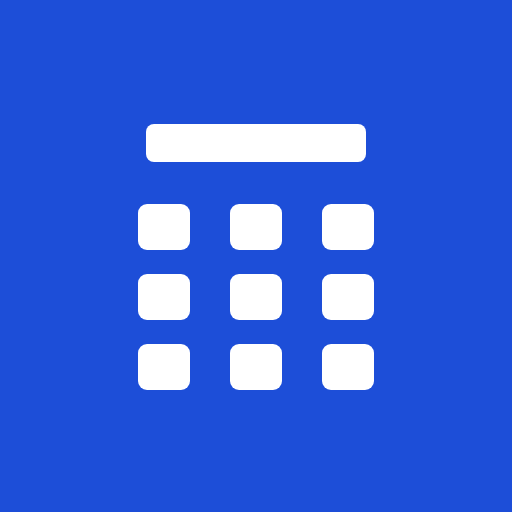
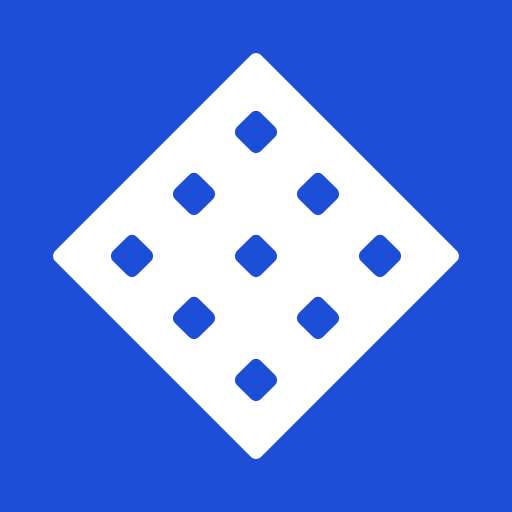
v1.35

Changed region(s): [[0.0938, 0.0938, 0.9062, 0.9062]]

diff --git a/css/styles.css b/css/styles.css
@@ -17,16 +17,16 @@
 }
 @media (prefers-color-scheme: dark) {
   :root {
-    --bg: #121214; --surface: #1b1b1e; --soft: #242428;
-    --ink: #ececee; --muted: #a2a2ab;
-    --line: #2f2f35; --line-strong: #4b4b54;
-    --accent: #7aa7ff; --accent-ink: #0b1220; --accent-soft: #1f2b47;
-    --danger: #ff8f85; --danger-soft: #3a1f1d; --ok: #7fd3a7;
-    --class: #7fd3a7; --class-soft: #1d2e26;
-    --exam: #f0b765; --exam-soft: #35291a;
-    --other: #b8a6f5; --other-soft: #2a2440;
-    --stairs: #26262b; --scrim: rgba(0, 0, 0, .65);
-    --seat-line: #5a5a64; --seat-ink: #e3e3e7; --seat-taken: #2a2a2f; --board: #3a3a42;
+    --bg: #000000; --surface: #0a0a0d; --soft: #141418;
+    --ink: #f1f1f4; --muted: #a0a0aa;
+    --line: #222228; --line-strong: #3c3c46;
+    --accent: #7aa7ff; --accent-ink: #0b1220; --accent-soft: #14203b;
+    --danger: #ff8f85; --danger-soft: #2b1412; --ok: #7fd3a7;
+    --class: #7fd3a7; --class-soft: #0e1f17;
+    --exam: #f0b765; --exam-soft: #241a0c;
+    --other: #b8a6f5; --other-soft: #1b1630;
+    --stairs: #17171b; --scrim: rgba(0, 0, 0, .72);
+    --seat-line: #50505a; --seat-ink: #e8e8ec; --seat-taken: #1f1f24; --board: #2a2a31;
   }
 }
 
@@ -201,6 +201,7 @@ body.room-page { display: flex; flex-direction: column; min-height: 0; height: 1
 .today-btn:hover { background: var(--accent-soft); }
 .no-events { align-self: center; color: var(--muted); font-size: 14px; }
 .day-bar { display: none; }
+.bar-handle { display: none; }
 .pk-pop { position: absolute; top: calc(100% + 6px); left: 14px; z-index: 30; width: 280px; padding: 12px; border: 1px solid var(--line-strong); border-radius: 8px; background: var(--surface); }
 .pk-head { display: flex; align-items: center; justify-content: space-between; margin-bottom: 8px; }
 .pk-head button { width: 32px; height: 32px; border: 1px solid var(--line); border-radius: 6px; background: var(--surface); color: var(--ink); font-size: 18px; line-height: 1; }
@@ -223,6 +224,7 @@ body.room-page { display: flex; flex-direction: column; min-height: 0; height: 1
 .chip[data-type="other"] { border-left-color: var(--other); }
 .chip:hover { background: var(--soft); }
 .chip.selected { border-color: var(--accent); border-left-color: var(--accent); background: var(--accent-soft); }
+.chip-tag { display: none; }
 .chip-time { font-size: 14px; font-weight: 600; line-height: 1.25; white-space: nowrap; }
 .chip-sub { max-width: 100%; color: var(--muted); font-size: 12px; line-height: 1.3; overflow-wrap: anywhere; }
 .chip-mark { position: absolute; top: 2px; right: 2px; display: grid; place-items: center; width: 30px; height: 30px; padding: 0; border: 0; border-radius: 6px; background: transparent; color: var(--muted); }
@@ -362,6 +364,23 @@ fieldset.field { padding: 0; border: 0; min-width: 0; }
 
 body.room-page #toast { bottom: 140px; }
 
+/* dark glass */
+/* Dark mode only: pure black page, a faint blue glow at the top, and frosted headers and cards. */
+@media (prefers-color-scheme: dark) {
+  body { background-color: #000; background-image: radial-gradient(900px 380px at 50% -120px, rgba(96, 140, 255, .16), transparent 70%); background-repeat: no-repeat; }
+  .site-bar, .topbar, .event-bar { background: rgba(12, 12, 16, .72); border-color: rgba(255, 255, 255, .08); -webkit-backdrop-filter: blur(18px) saturate(150%); backdrop-filter: blur(18px) saturate(150%); }
+  .menu, .my-item, .search-box, .room-foot, .zoom-tools, .chip, .date-pill, .strip-arrow, .btn, .bookmark-btn, .add-btn { background: rgba(255, 255, 255, .045); border-color: rgba(255, 255, 255, .11); -webkit-backdrop-filter: blur(12px); backdrop-filter: blur(12px); }
+  .room-foot { background: rgba(12, 12, 16, .72); border-top-color: rgba(255, 255, 255, .08); -webkit-backdrop-filter: blur(18px) saturate(150%); backdrop-filter: blur(18px) saturate(150%); }
+  .chip.selected, .date-pill.selected, .btn.primary, .bookmark-btn[aria-pressed="true"] { background: var(--accent-soft); border-color: var(--accent); }
+  .date-pill.selected, .btn.primary { background: var(--accent); }
+  .btn.quiet { background: transparent; border-color: transparent; -webkit-backdrop-filter: none; backdrop-filter: none; }
+  .pk-pop { background: rgba(14, 14, 18, .9); border-color: rgba(255, 255, 255, .14); -webkit-backdrop-filter: blur(20px); backdrop-filter: blur(20px); }
+  dialog { background: rgba(16, 16, 21, .82); border-color: rgba(255, 255, 255, .14); -webkit-backdrop-filter: blur(22px) saturate(150%); backdrop-filter: blur(22px) saturate(150%); }
+  dialog::backdrop { background: rgba(0, 0, 0, .6); -webkit-backdrop-filter: blur(4px); backdrop-filter: blur(4px); }
+  .map-card { border-color: rgba(255, 255, 255, .14); }
+}
+/* end dark glass */
+
 /* ---------- phones ---------- */
 @media (max-width: 759px) {
   :root { --gap: 4px; --row-gap: 4px; --aisle-w: 24px; --gutter-w: 54px; }
@@ -396,7 +415,7 @@ body.room-page #toast { bottom: 140px; }
   .month-btn { display: inline-flex; align-items: center; gap: 4px; padding: 4px 4px; border: 0; background: transparent; font-size: 15px; font-weight: 600; }
   .day-strip { position: relative; display: flex; gap: 4px; padding: 2px 12px; overflow-x: auto; scrollbar-width: none; }
   .day-strip::-webkit-scrollbar { display: none; }
-  .day-tile { position: relative; flex: 0 0 auto; display: flex; flex-direction: column; align-items: center; justify-content: center; gap: 2px; width: 44px; height: 50px; padding: 0; border: 1px solid transparent; border-radius: 8px; background: transparent; }
+  .day-tile { position: relative; flex: 0 0 auto; display: flex; flex-direction: column; align-items: center; justify-content: center; gap: 2px; width: calc((100vw - 24px) / 7.4 - 4px); max-width: 56px; height: 54px; padding: 0; border: 1px solid transparent; border-radius: 12px; background: transparent; }
   .day-tile span { color: var(--muted); font-size: 11px; font-weight: 500; }
   .day-tile b { font-size: 17px; font-weight: 600; line-height: 1; }
   .day-tile.today { border-color: var(--line-strong); }
@@ -405,10 +424,33 @@ body.room-page #toast { bottom: 140px; }
   .day-tile.selected span { color: inherit; opacity: .85; }
   .day-tile.selected.has::after { background: var(--accent-ink); }
   .pk-pop { left: 12px; right: 12px; width: auto; max-width: 320px; }
-  .event-strip { flex: none; width: 100%; padding: 0 12px 2px; }
-  .event-strip { padding-top: 4px; }
-  .chip { min-width: 140px; max-width: 240px; min-height: 44px; padding: 5px 32px 5px 9px; }
-  .chip-time { font-size: 13px; }
+  .event-strip { flex: none; width: 100%; gap: 8px; padding: 0 12px 2px; scroll-padding: 0 12px; scroll-snap-type: x mandatory; scrollbar-width: none; }
+  .event-strip::-webkit-scrollbar { display: none; }
+  .event-strip { padding-top: 6px; }
+  .chip-wrap { flex: 1 0 auto; display: flex; min-width: 42%; max-width: 80%; }
+  .chip, .chip[data-type] { flex: 1; width: 100%; min-width: 0; max-width: none; min-height: 58px; gap: 3px; padding: 8px 12px; border: 1px solid var(--line); border-radius: 10px; position: relative; }
+  .chip.selected, .chip.selected[data-type] { border-color: var(--accent); }
+  .chip::before { content: ""; position: absolute; left: 0; top: 10px; bottom: 10px; width: 4px; border-radius: 0 3px 3px 0; background: var(--class); }
+  .chip[data-type="exam"]::before { background: var(--exam); }
+  .chip[data-type="other"]::before { background: var(--other); }
+  .chip.selected::before { background: var(--accent); }
+  .chip-time { padding-left: 4px; font-size: 13px; }
+  .chip-sub { padding-left: 4px; color: var(--ink); font-size: 14px; font-weight: 500; line-height: 1.25; }
+  .chip-tag { display: inline; margin-left: 6px; font-size: 11px; font-weight: 700; letter-spacing: .03em; text-transform: uppercase; color: var(--exam); }
+  .chip[data-type="other"] .chip-tag { color: var(--other); }
+  .chip-mark { top: 4px; right: 4px; width: 26px; height: 26px; }
+  .chip-mark[aria-pressed="false"] { display: none; }
+  .map-scroll.whole .map-sizer { margin: auto; }
+
+  /* Pull-up handle: collapses the dates and events so the seat map gets the whole screen. */
+  .bar-handle { display: flex; align-items: center; justify-content: center; gap: 10px; width: 100%; min-height: 22px; padding: 3px 14px 6px; border: 0; background: transparent; color: var(--muted); text-align: left; }
+  .grab { width: 40px; height: 4px; border-radius: 2px; background: var(--line-strong); }
+  .bar-sum, .bar-chev { display: none; }
+  .event-bar.collapsed .event-bar-inner { display: none; }
+  .event-bar.collapsed .bar-handle { justify-content: space-between; min-height: 46px; padding: 8px 14px; }
+  .event-bar.collapsed .grab { display: none; }
+  .event-bar.collapsed .bar-sum { display: block; flex: 1; min-width: 0; overflow: hidden; color: var(--ink); font-size: 14px; font-weight: 600; text-overflow: ellipsis; white-space: nowrap; }
+  .event-bar.collapsed .bar-chev { display: block; flex: 0 0 auto; }
   .room-foot { gap: 6px 12px; padding: 8px 12px max(14px, env(safe-area-inset-bottom)); }
   .foot-event { flex-basis: 100%; }
   .foot-event strong { font-size: 15px; }

diff --git a/js/room.js b/js/room.js
@@ -170,6 +170,7 @@
     const box = $('map-scroll');
     if (!state.manualZoom) {
       state.scale = fitScale();
+      box.classList.toggle('whole', isPhone() && state.showWhole);
       applyScale();
       // Only move the view when the scale changed, so marking a seat does not jump the map back.
       if (Math.abs(state.scale - state.lastScale) > 0.001) {
@@ -261,15 +262,53 @@
       return `<button type="button" class="date-pill${mid ? ' selected' : ''}" data-date="${esc(date)}" data-mid="${mid}" aria-label="${esc(dateLong(date))}${mid ? ', open calendar' : ''}" ${mid ? 'aria-haspopup="dialog" aria-expanded="' + !$('pk-pop').hidden + '"' : ''}><span>${esc(d ? part(d, { weekday: 'short' }) : '')}</span><b>${esc(dayLabel(date))}${mid ? calIcon : ''}</b></button>`;
     }).join('');
     $('date-today').hidden = $('day-today').hidden = state.date === todayISO();
+    updateSummary();
     renderDays();
     if (!$('pk-pop').hidden) renderCal();
     strip.innerHTML = state.events.filter(e => e.date === state.date).map(e => {
       const selected = String(e.id) === String(state.eventId);
       const type = typeOf(e.type);
       const marked = Store.bookmarks.has(e.id);
-      return `<div class="chip-wrap"><button type="button" class="chip${selected ? ' selected' : ''}" data-event="${esc(e.id)}" data-type="${type}" title="${esc(e.title)} · ${esc(TYPE[type])}" aria-label="${esc(e.title)}, ${esc(TYPE[type])}, ${esc(dateLong(e.date))}, ${esc(timeLabel(e.start))}" aria-pressed="${selected}"><span class="chip-time">${esc(timeLabel(e.start))}</span><span class="chip-sub">${esc(e.title)}</span></button><button type="button" class="chip-mark" data-bookmark="${esc(e.id)}" aria-pressed="${marked}" aria-label="${marked ? 'Remove bookmark from' : 'Bookmark'} ${esc(e.title)}" title="${marked ? 'Remove from My events' : 'Add to My events'}">${flag}</button></div>`;
+      return `<div class="chip-wrap"><button type="button" class="chip${selected ? ' selected' : ''}" data-event="${esc(e.id)}" data-type="${type}" title="${esc(e.title)} · ${esc(TYPE[type])}" aria-label="${esc(e.title)}, ${esc(TYPE[type])}, ${esc(dateLong(e.date))}, ${esc(timeLabel(e.start))}" aria-pressed="${selected}"><span class="chip-time">${esc(timeLabel(e.start))}${type === 'class' ? '' : `<span class="chip-tag">${esc(TYPE[type])}</span>`}</span><span class="chip-sub">${esc(e.title)}</span></button><button type="button" class="chip-mark" data-bookmark="${esc(e.id)}" aria-pressed="${marked}" aria-label="${marked ? 'Remove bookmark from' : 'Bookmark'} ${esc(e.title)}" title="${marked ? 'Remove from My events' : 'Add to My events'}">${flag}</button></div>`;
     }).join('') || '<div class="no-events">No classes or events on this day</div>';
   }
+
+  // ---------- phones: pull the dates and events up to see the whole classroom ----------
+  const BAR_KEY = 'lhc-bar-collapsed';
+  function updateSummary() {
+    const ev = currentEvent();
+    $('bar-sum').textContent = `${LHC_FMT.dateShort(state.date)} · ${ev ? `${ev.title}, ${timeLabel(ev.start)}` : 'No events'}`;
+  }
+  function setCollapsed(on, remember) {
+    const bar = $('event-bar');
+    bar.classList.toggle('collapsed', on);
+    const handle = $('bar-handle');
+    handle.setAttribute('aria-expanded', String(!on));
+    handle.setAttribute('aria-label', on ? 'Show dates and events' : 'Hide dates and events to see the whole classroom');
+    if (on) $('pk-pop').hidden = true;
+    updateSummary();
+    if (remember) { try { localStorage.setItem(BAR_KEY, on ? '1' : '0'); } catch { /* ignore */ } }
+    // Collapsed: show the whole classroom. Expanded: back to the readable size.
+    state.showWhole = on; state.manualZoom = false; state.lastScale = 0;
+    const fit = document.querySelector('[data-zoom="fit"]');
+    if (fit) { const label = on ? 'Readable size' : 'Fit whole classroom'; fit.title = label; fit.setAttribute('aria-label', label); }
+    requestAnimationFrame(() => requestAnimationFrame(refit));
+  }
+  $('bar-handle').addEventListener('click', () => setCollapsed(!$('event-bar').classList.contains('collapsed'), true));
+  (() => {
+    let t = null;
+    const bar = $('event-bar');
+    bar.addEventListener('touchstart', e => { t = e.touches.length === 1 ? { x: e.touches[0].clientX, y: e.touches[0].clientY } : null; }, { passive: true });
+    bar.addEventListener('touchend', e => {
+      if (!t || !isPhone()) return;
+      const c = e.changedTouches[0], dx = c.clientX - t.x, dy = c.clientY - t.y;
+      t = null;
+      if (Math.abs(dy) < 36 || Math.abs(dy) < Math.abs(dx) * 1.5) return;
+      const collapsed = bar.classList.contains('collapsed');
+      if (dy < 0 && !collapsed) setCollapsed(true, true);
+      else if (dy > 0 && collapsed) setCollapsed(false, true);
+    }, { passive: true });
+  })();
 
   function renderCal() {
     const pop = $('pk-pop'), base = parseDate(calMonth || state.date) || new Date();
@@ -451,6 +490,7 @@
     showAddButton();
     if (room.layout) wireZoom(); else $('zoom-tools').hidden = true;
     if (!room.layout) $('map-scroll').outerHTML = `<div class="pending"><h2>${esc(room.name)}</h2><p>The seating map for this classroom isn't available yet.</p></div>`;
+    try { if (isPhone() && localStorage.getItem(BAR_KEY) === '1') setCollapsed(true, false); } catch { /* ignore */ }
     const status = await Store.init();
     if (status.error) notify(status.error);
     try { await loadEvents(); } catch (error) { console.error(error); state.events = []; notify('Could not load events.'); }

diff --git a/tests/smoke-test.js b/tests/smoke-test.js
@@ -149,9 +149,13 @@ assert.ok(!fs.existsSync(path.join(root, 'js/theme.js')), 'theme.js is gone');
   }
   assert.ok(pointsOf('lhc-aryabhatta').every(([x, y], _, all) => all.some(([x2, y2]) => x2 === 1200 - x && y2 === y)), 'Aryabhatta is centred');
 }
-// Plain, flat styling: no glass blur, no gradients (except the calendar's hour lines), no decorative serif.
-assert.ok(!/backdrop-filter|blur\(/.test(css), 'no glass / blur effects');
-assert.ok((css.match(/gradient\(/g) || []).length === 1 && /\.cal-col \{[^}]*linear-gradient/.test(css), 'no gradients except the calendar hour lines');
+// Plain, flat styling: glass blur only in dark mode (the marked "dark glass" block), no other gradients except the calendar's hour lines, no decorative serif.
+const glass = (css.match(/\/\* dark glass \*\/[\s\S]*?\/\* end dark glass \*\//) || [''])[0];
+assert.ok(/@media \(prefers-color-scheme: dark\)/.test(glass) && /backdrop-filter/.test(glass), 'dark mode has a light glass touch');
+const flatCss = css.replace(glass, '');
+assert.ok(!/backdrop-filter|blur\(/.test(flatCss), 'no glass / blur effects outside dark mode');
+assert.ok((flatCss.match(/gradient\(/g) || []).length === 1 && /\.cal-col \{[^}]*linear-gradient/.test(flatCss), 'no gradients except the calendar hour lines');
+assert.ok(/--bg: #000000/.test(css), 'dark mode page is pure black');
 assert.ok(!/(^|[^-])serif|box-shadow/.test(css.replace(/sans-serif/g, "")), 'no serif headings or drop shadows');
 for (const page of ['index.html', 'interactive-map.html', 'admin.html']) assert.ok(read(page).includes('class="site-bar"'), `${page} has the simple top menu`);
 assert.ok(/id="room-list"/.test(read('index.html')) && /\.menu \{/.test(css), 'home page lists classrooms as a plain menu');
@@ -321,3 +325,13 @@ console.log('PASS: Cloudflare runtime config, admin session security and permiss
   assert.ok(home.includes('Store.mySeats') && read('js/room.js').includes('Your seat:') && read('js/cheer.js').includes('Your seat:'), 'seat number shown in lists, the classroom footer and the popup');
   console.log('PASS: own seat shown for exams; past events hidden by default');
 })().catch(error => { console.error(error); process.exitCode = 1; });
+
+// Phones: the dates and events can be pulled up to show the whole classroom.
+{
+  const room = read('room.html'), js = read('js/room.js'), css = read('css/styles.css');
+  assert.ok(room.includes('id="bar-handle"') && room.includes('aria-controls="event-bar-inner"') && room.includes('id="event-bar-inner"'), 'pull-up handle exists and is labelled');
+  assert.ok(js.includes('setCollapsed') && js.includes("'touchend'") && js.includes('lhc-bar-collapsed'), 'handle works by tap and swipe and is remembered');
+  assert.ok(/\.event-bar\.collapsed \.event-bar-inner \{ display: none; \}/.test(css), 'collapsed bar hides dates and events');
+  assert.ok(/\.bar-handle \{ display: none; \}/.test(css), 'handle is phone-only');
+  console.log('PASS: pull-up events bar on phones');
+}

diff --git a/room.html b/room.html
@@ -5,7 +5,7 @@
   <meta name="viewport" content="width=device-width, initial-scale=1">
   <meta name="color-scheme" content="light dark">
   <meta name="theme-color" content="#f6f6f4" media="(prefers-color-scheme: light)">
-  <meta name="theme-color" content="#121214" media="(prefers-color-scheme: dark)">
+  <meta name="theme-color" content="#000000" media="(prefers-color-scheme: dark)">
   <title>Classroom - IISER TVM</title>
   <link rel="manifest" href="manifest.webmanifest">
   <link rel="icon" href="icons/icon-192.png" type="image/png">
@@ -27,7 +27,7 @@
   </header>
 
   <div class="event-bar" id="event-bar" hidden>
-    <div class="event-bar-inner">
+    <div class="event-bar-inner" id="event-bar-inner">
       <div class="date-nav">
         <button type="button" class="strip-arrow" id="strip-left" aria-label="Previous day">
           <svg viewBox="0 0 24 24" width="16" height="16" fill="none" stroke="currentColor" stroke-width="2.6" stroke-linecap="round" stroke-linejoin="round" aria-hidden="true"><path d="M15 5l-7 7 7 7"/></svg>
@@ -48,6 +48,11 @@
       <div class="pk-pop" id="pk-pop" role="dialog" aria-label="Calendar" hidden></div>
       <div class="event-strip" id="event-strip" aria-label="Events on the selected date"></div>
     </div>
+    <button type="button" class="bar-handle" id="bar-handle" aria-expanded="true" aria-controls="event-bar-inner" aria-label="Hide dates and events to see the whole classroom">
+      <span class="grab" aria-hidden="true"></span>
+      <span class="bar-sum" id="bar-sum"></span>
+      <svg class="bar-chev" viewBox="0 0 24 24" width="20" height="20" fill="none" stroke="currentColor" stroke-width="2.4" stroke-linecap="round" stroke-linejoin="round" aria-hidden="true"><path d="M6 9l6 6 6-6"/></svg>
+    </button>
   </div>
 
   <main class="layout-main" id="room-body"></main>

diff --git a/sw.js b/sw.js
@@ -1,7 +1,7 @@
 // Lets the site install as an app and open its pages without a connection.
 // Pages and scripts always come from the network first, so updates show straight away; the saved copy is only a fallback.
 // Live data (/api and the database) is never saved here.
-const CACHE = 'lhc-shell-v2';
+const CACHE = 'lhc-shell-v3';
 const SHELL = ['index.html', 'room.html', 'interactive-map.html', 'css/styles.css', 'js/format.js', 'js/data.js', 'js/store.js', 'js/home.js', 'js/room.js', 'js/map.js', 'js/cheer.js', 'js/pwa.js', 'supabase/config.js', 'icons/icon-192.png', 'icons/icon-512.png', 'icons/cheer-cat.png'];
 
 self.addEventListener('install', event => {

diff --git a/admin.html b/admin.html
@@ -5,7 +5,7 @@
   <meta name="viewport" content="width=device-width, initial-scale=1">
   <meta name="color-scheme" content="light dark">
   <meta name="theme-color" content="#f6f6f4" media="(prefers-color-scheme: light)">
-  <meta name="theme-color" content="#121214" media="(prefers-color-scheme: dark)">
+  <meta name="theme-color" content="#000000" media="(prefers-color-scheme: dark)">
   <title>Admin - IISER TVM Lecture Hall Complex</title>
   <link rel="manifest" href="manifest.webmanifest">
   <link rel="icon" href="icons/icon-192.png" type="image/png">

diff --git a/interactive-map.html b/interactive-map.html
@@ -5,7 +5,7 @@
   <meta name="viewport" content="width=device-width, initial-scale=1">
   <meta name="color-scheme" content="light dark">
   <meta name="theme-color" content="#f6f6f4" media="(prefers-color-scheme: light)">
-  <meta name="theme-color" content="#121214" media="(prefers-color-scheme: dark)">
+  <meta name="theme-color" content="#000000" media="(prefers-color-scheme: dark)">
   <title>Lecture Hall Complex map - IISER TVM</title>
   <link rel="manifest" href="manifest.webmanifest">
   <link rel="icon" href="icons/icon-192.png" type="image/png">

diff --git a/index.html b/index.html
@@ -5,7 +5,7 @@
   <meta name="viewport" content="width=device-width, initial-scale=1">
   <meta name="color-scheme" content="light dark">
   <meta name="theme-color" content="#f6f6f4" media="(prefers-color-scheme: light)">
-  <meta name="theme-color" content="#121214" media="(prefers-color-scheme: dark)">
+  <meta name="theme-color" content="#000000" media="(prefers-color-scheme: dark)">
   <title>Lecture Hall Complex - IISER TVM</title>
   <link rel="manifest" href="manifest.webmanifest">
   <link rel="icon" href="icons/icon-192.png" type="image/png">

diff --git a/STATUS.md b/STATUS.md
@@ -3,6 +3,10 @@
 Updated: 2026-11-16
 
 ## Done
+- Phone classroom page: the dates and events can be pulled up. Swipe up on the date and events area (or tap the bar under it) to collapse it to one line (date and chosen event) and show the whole classroom; swipe down or tap to bring it back. The choice is remembered on the device.
+- Phone events row redesigned: day tiles sized to fit about seven days, and event cards with a colour bar, the time, an Exam/Other tag and the full name (cards widen for long names; the bookmark icon shows only on bookmarked events, the Add to My events button is in the footer).
+- Dark mode is now pure black with a light glass touch: a faint blue glow at the top and frosted headers, cards, menus, buttons and popups. Light mode is unchanged and flat.
+- Logo: an original mark, a diamond classroom (like the diamond halls on the floor plan) with its seats in rows, white on blue. Used in the site header, browser tab, installed app icon and home-screen icon (`icons/icon.svg` is the source for the three PNGs). It is not based on the institute's official logo; to use that instead, replace the three PNGs in `icons/`.
 - Home screen hides past events by default, in search results ("N past hidden" and a Show past button) and in My events (Show past (n) / Hide past).
 - Exams show the seat the person marked: "Seat 12" on exam rows (My events and search), "Your seat: 12" in the classroom footer, and in the "All the best" popup. It reads the seats marked on that device.
 - Phones: the classroom page was taller than the visible screen (page-wide `min-height: 100vh` overrode `100dvh`), pushing "Add to My events" off screen; fixed, and the footer now keeps clear of the gesture bar. The date and events area is more compact (about 30% less height) so the seat map gets more room. The home header shows the app icon with the name, and the menu is a tab row with an underline on the current page.
@@ -25,7 +29,6 @@ Updated: 2026-11-16
 - `supabase/schedule.sql` loads the Varsha 2026 class timetable (all four years) for Jupiter, Venus, Bhaskara and Kaumudi: 1,500 class events, Mon 27 Jul to Tue 17 Nov 2026. It deletes all existing events first. Tested on a local Postgres with the overlap constraint, run twice. Re-run it only to reset the schedule.
 
 ## Open
-- Logo: the app icon is a simple original mark (board and seats). The official IISER TVM logo was not copied; to use it, replace `icons/icon-192.png`, `icons/icon-512.png` and `icons/apple-touch-icon.png` with files made from the official artwork.
 - BSMS 1 has its own academic calendar that was not in the PDFs; it uses the same dates for now (edit the `terms` rows in schedule.sql).
 - Aryabhatta has no classes in the timetables.
 - Nothing known. After deploying, check /admin, a classroom page and the interactive map in light and dark.

diff --git a/README.md b/README.md
@@ -9,7 +9,8 @@ Open a classroom to see its seating arrangement, browse its events by date, book
 | `index.html` | Top menu (Classrooms, Interactive map, Admin), the classroom list and **My events** |
 | `room.html?room=lhc-kaumudi` | Seat map, one-date-at-a-time event column, bookmarks, exam seat marking |
 | `manifest.webmanifest`, `sw.js`, `icons/`, `js/pwa.js` | Install-as-app files (Chrome's own install prompt) |
-| `icons/icon-*.png` | App icon, header icon and install icon (replace with the official logo files if wanted) |
+| `icons/icon-*.png` | Logo: diamond classroom with seats; used as header, tab, install and home-screen icon (`icon.svg` is the source) |
+| `js/room.js` | Classroom page (phones: pull-up dates and events bar) |
 | `js/cheer.js`, `icons/cheer-cat.png` | "All the best" popup (dancing kitten) for a bookmarked exam from 15 minutes before it starts |
 | `interactive-map.html` | Interactive map of the Lecture Hall Complex (map in the printed floor plan colours) |
 | `admin.html` | Weekly schedule for each classroom: add, edit, reschedule, delete; settings and co-admins (admin only) |

diff --git a/PATCH-README.md b/PATCH-README.md
@@ -20,5 +20,8 @@ What changed
 - Phones: Add to My events no longer falls below the screen; header reformatted (icon + tab menu); date and events area more compact.
 - Home hides past events by default (Show past button); exams show your marked seat in lists, the classroom footer and the popup.
 - "Floor plan" is now "Interactive map"; the map uses the colours of the printed floor plan while the rest of the page follows the device theme.
+- New logo (diamond classroom with seats) for the header, browser tab and installed app.
+- Phones: pull-up dates/events bar (swipe or tap) to see the whole classroom; events row redesigned.
+- Dark mode: pure black with a light glass touch.
 - Full event names everywhere (no cut-off text).
 - Admin weekly calendar styling repaired; adding an event that clashes now lists the clash and lets the admin replace it.
